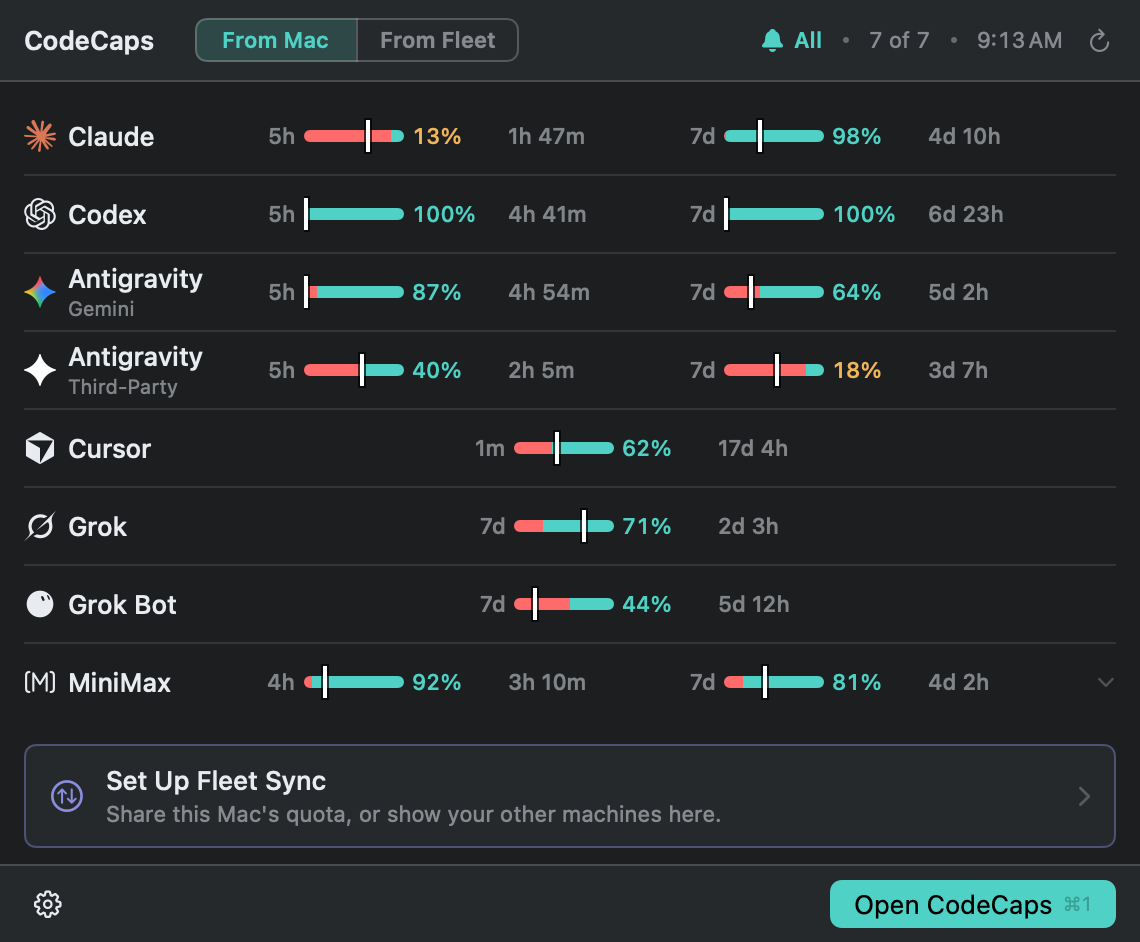
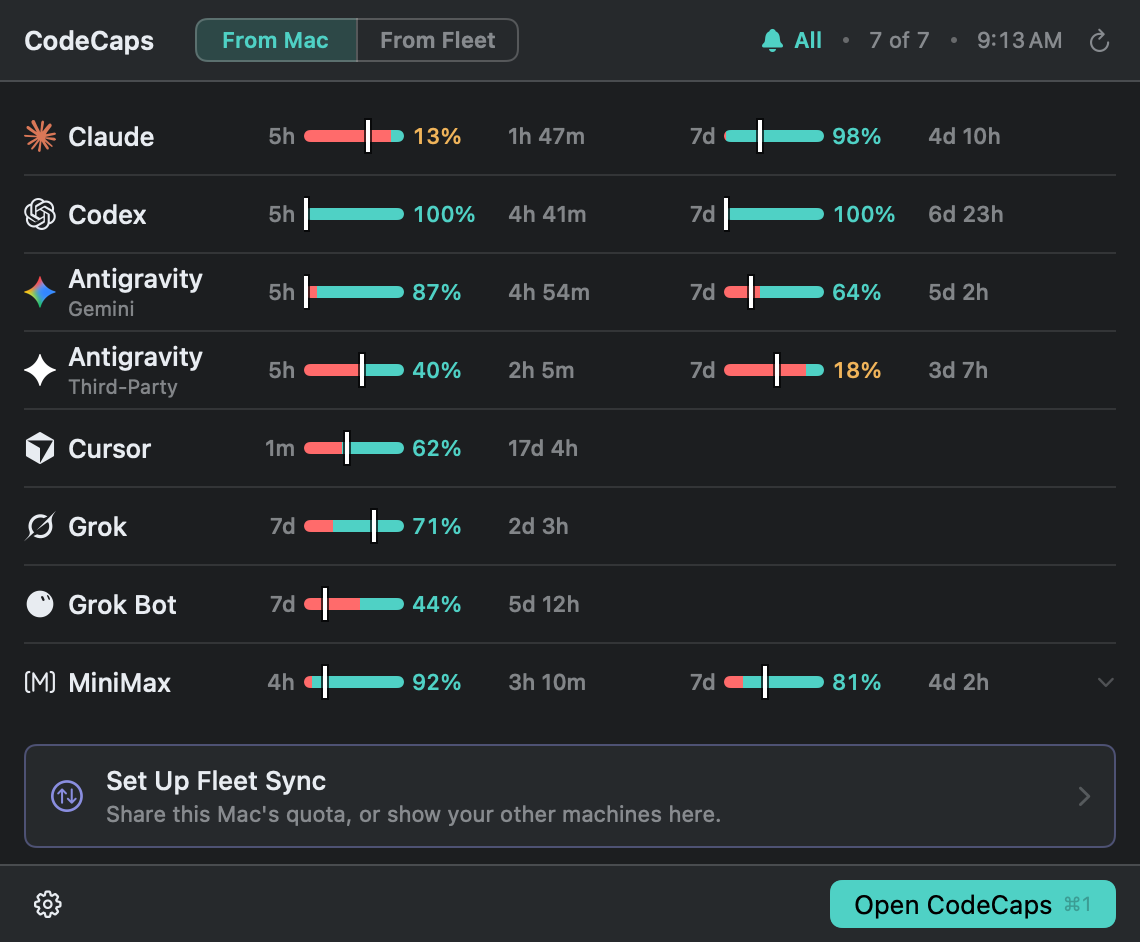
fix(glance): single-meter rows start in the first column again, never centred
Owner 2026-10-01: Cursor's "1m", Grok's "7d" and Grok Bot's "7d" sat in a
middle position between the two quota columns.  Single bars start in the
FIRST column, at the same x as the "5h" bars of the two-meter rows, and the
second column stays empty.

Root cause.  GlanceMeterColumns centred a lone meter across the two-meter
span (PR #88, "centred lone meters"), so Cursor and Grok have floated between
the columns since then.  PR #91 and #93 made it worse by adding Grok Bot to
the lone rows: their duplicate and placeholder guards collapse its stray
second bar, so the row became a single meter and joined the centred ones.
The row's single meter is always the `short` slot (glanceMeterPair), and
GlanceMeterColumns treated `short ?? long` as one centred slot.  The same
branch also centred a lone LONG window on an expanded line, which belongs
under the second column, under the row's weekly meter.

Fix.  GlanceMeterColumns always lays out two fixed-width columns: the short
window in the first, the long window in the second, and an empty column of the
same width where there is none.  No centring.  Untouched: the top bar, Title
Case switch, glanceDrawableWindows and glanceIsCopy guards, glanceMeterPair,
bar-end marker handling.

Tests.  GlanceAlignmentTests replaces the test that pinned the centring:

- testASingleMeterRowStartsInTheFirstColumnOfATwoMeterRow renders Cursor,
  Grok and Grok Bot beside Claude and asserts the bar's first pixel and the
[…]

diff --git a/Tests/CodeCapsTests/GlanceAlignmentTests.swift b/Tests/CodeCapsTests/GlanceAlignmentTests.swift
@@ -26,10 +26,13 @@ final class GlanceAlignmentTests: XCTestCase {
         return rep
     }
 
-    /// The first x, in points, at or right of `from` where a pixel satisfies `test`.
-    private func firstX(in rep: NSBitmapImageRep, from: CGFloat, where test: (NSColor) -> Bool) -> CGFloat? {
-        let scale = CGFloat(rep.pixelsWide) / Metrics.glanceWidth
-        for x in Int(from * scale)..<rep.pixelsWide {
+    /// The first x, in points, at or right of `from` where a pixel satisfies
+    /// `test`.  `width` is the width, in points, the image was drawn at.
+    private func firstX(in rep: NSBitmapImageRep, from: CGFloat, to end: CGFloat? = nil,
+                        width: CGFloat = Metrics.glanceWidth,
+                        where test: (NSColor) -> Bool) -> CGFloat? {
+        let scale = CGFloat(rep.pixelsWide) / width
+        for x in Int(from * scale)..<min(rep.pixelsWide, end.map { Int($0 * scale) } ?? rep.pixelsWide) {
             for y in 0..<rep.pixelsHigh {
                 if let color = rep.colorAt(x: x, y: y)?.usingColorSpace(.deviceRGB), test(color) {
                     return CGFloat(x) / scale
@@ -52,10 +55,10 @@ final class GlanceAlignmentTests: XCTestCase {
     }
 
     func testStatusTextStartsWhereASingleBarStarts() throws {
-        // Measured on a TWO-window row.  A row with a single meter centres it
-        // across the two-meter span, so Cursor's bar no longer sits on the
-        // grid; Claude's first meter does, and that is the position the status
-        // text has to line up with.
+        // Measured on a TWO-window row.  A single meter starts in the same
+        // first column (`testASingleMeterRowStartsInTheFirstColumn…`), so
+        // Claude's first meter and Cursor's bar share one position, and that is
+        // the position the status text has to line up with.
         let claude = section(GlanceFixtures.localWindows.filter { $0.providerKey == "anthropic" })
         let barRow = try rowImage(claude, issue: nil)
         // The used share of Claude's first bar is red, and nothing else in the
@@ -70,22 +73,129 @@ final class GlanceAlignmentTests: XCTestCase {
         })
 
         XCTAssertEqual(textX, barX, accuracy: 3, "\"not signed in\" starts where a bar starts")
+
+        // And where a single-meter row's bar starts, which is the same place.
+        let cursor = section(GlanceFixtures.localWindows.filter { $0.providerKey == "cursor" })
+        let cursorBarX = try XCTUnwrap(firstX(in: try rowImage(cursor, issue: nil), from: columnStart) {
+            $0.redComponent > 0.6 && $0.greenComponent < 0.4
+        })
+        XCTAssertEqual(textX, cursorBarX, accuracy: 3, "\"not signed in\" starts where Cursor's lone bar starts")
         XCTAssertEqual(barX - columnStart, Metrics.glanceMeterBarInset, accuracy: 3,
                        "the bar sits one caption column in from the start of the meter")
     }
 
-    /// A single-meter row centres its meter, so its bar sits half a meter plus
-    /// half the group gap to the right of where a two-window row's first bar
-    /// does.  Pinned because that offset is the whole point of the change: the
-    /// lone meter reads as deliberate instead of as a missing second reading.
-    func testASingleMeterRowCentresItsBarBetweenTheTwoMeterColumns() throws {
-        let cursor = section(GlanceFixtures.localWindows.filter { $0.providerKey == "cursor" })
-        let barX = try XCTUnwrap(firstX(in: try rowImage(cursor, issue: nil), from: columnStart) {
-            $0.redComponent > 0.6 && $0.greenComponent < 0.4
-        })
-        let offset = (Metrics.glanceMeterWidth + Metrics.glanceMeterGroupGap) / 2
-        XCTAssertEqual(barX - columnStart, Metrics.glanceMeterBarInset + offset, accuracy: 3,
-                       "a lone meter is centred across the two-meter span")
+    /// The last x, in points, left of `before` where a pixel is not the popover
+    /// background: the right edge of a meter's caption, which is trailing-aligned
+    /// in its column.
+    private func lastInkX(in rep: NSBitmapImageRep, from: CGFloat, before: CGFloat) -> CGFloat? {
+        let scale = CGFloat(rep.pixelsWide) / Metrics.glanceWidth
+        var found: CGFloat?
+        for x in Int(from * scale)..<Int(before * scale) {
+            for y in 0..<rep.pixelsHigh {
+                if let color = rep.colorAt(x: x, y: y)?.usingColorSpace(.deviceRGB), isInk(color) {
+                    found = CGFloat(x + 1) / scale
+                    break
+                }
+            }
+        }
+        return found
+    }
+
+    /// Whether a pixel is anything but the light popover background.
+    private func isInk(_ color: NSColor) -> Bool {
+        abs(color.redComponent - 0.96) > 0.2 || abs(color.greenComponent - 0.97) > 0.2
+    }
+
+    private func isUsedShare(_ color: NSColor) -> Bool {
+        color.redComponent > 0.6 && color.greenComponent < 0.4
+    }
+
+    /// A row with one meter puts it in the FIRST column, exactly where a
+    /// two-meter row puts its first one, and leaves the second column empty.
+    /// Never centred: the owner has ruled on this twice, and a centred lone bar
+    /// (PR #88) read as a different grid from the rows above and below it.
+    ///
+    /// Measured against rendered pixels: the bar's first used-share pixel, and
+    /// the caption's right edge (the caption is trailing-aligned in its
+    /// column, so its left edge moves with the glyphs but its right edge does
+    /// not).
+    func testASingleMeterRowStartsInTheFirstColumnOfATwoMeterRow() throws {
+        let twoMeter = try rowImage(
+            section(GlanceFixtures.localWindows.filter { $0.providerKey == "anthropic" }), issue: nil)
+        let referenceBar = try XCTUnwrap(firstX(in: twoMeter, from: columnStart, where: isUsedShare))
+        let barEdge = referenceBar - Metrics.glanceMeterGap
+        let referenceCaption = try XCTUnwrap(lastInkX(in: twoMeter, from: columnStart, before: barEdge))
+        XCTAssertEqual(referenceBar - columnStart, Metrics.glanceMeterBarInset, accuracy: 3,
+                       "the reference bar sits one caption column in from the start of the meter")
+
+        // Cursor's "1m", Grok's "7d", and Grok Bot's "7d" (the row that drew a
+        // stray second bar and is now one) are the single-meter rows.
+        for provider in ["cursor", "xai", "grok-bot"] {
+            let row = section(GlanceFixtures.localWindows.filter { $0.providerKey == provider })
+            let pair = glanceMeterPair(for: row, now: now)
+            XCTAssertNotNil(pair.short, "\(provider) has a meter")
+            XCTAssertNil(pair.long, "\(provider) is a single-meter row")
+
+            let image = try rowImage(row, issue: nil)
+            let bar = try XCTUnwrap(firstX(in: image, from: columnStart, where: isUsedShare), provider)
+            XCTAssertEqual(bar, referenceBar, accuracy: 2, "\(provider)'s bar starts at a two-meter row's first bar")
+            let caption = try XCTUnwrap(lastInkX(in: image, from: columnStart, before: bar - Metrics.glanceMeterGap),
+                                        provider)
+            XCTAssertEqual(caption, referenceCaption, accuracy: 2,
+                           "\(provider)'s caption ends where a two-meter row's first caption does")
+            XCTAssertLessThan(caption, columnStart + Metrics.glanceMeterCaptionWidth + 1,
+                              "\(provider)'s caption is inside the first column")
+
+            // The second column is empty: nothing is drawn across its width.
+            let secondColumn = columnStart + Metrics.glanceMeterWidth + Metrics.glanceMeterGroupGap
+            XCTAssertNil(firstX(in: image, from: secondColumn, to: secondColumn + Metrics.glanceMeterWidth,
+                                where: isInk),
+                         "\(provider) leaves the second column empty")
+        }
+    }
+
+    /// One line of meters drawn the way a row and every expanded line draw it.
+    private func columnsImage(short: QuotaWindowSnapshot?, long: QuotaWindowSnapshot?) throws -> NSBitmapImageRep {
+        let size = CGSize(width: Metrics.glanceMetersWidth, height: Metrics.glanceExpandedLineHeight)
+        // Filled to the full size first, so the background covers the whole image
+        // and "nothing drawn here" means the background colour, not transparency.
+        let view = GlanceMeterColumns(short: short, long: long, now: now)
+            .frame(width: size.width, height: size.height, alignment: .leading)
+            .background(Theme.background)
+        guard let png = GlanceFixtures.png(of: view, size: size, dark: false),
+              let rep = NSBitmapImageRep(data: png) else {
+            throw XCTSkip("AppKit could not draw offscreen in this session")
+        }
+        return rep
+    }
+
+    /// An expanded line with one window keeps it under the column its cadence
+    /// names: a lone weekly under the row's weekly meter, a lone short window
+    /// under the row's short one.  A lone meter is never centred between them.
+    func testALoneWindowOnAnExpandedLineSitsUnderItsOwnCadenceColumn() throws {
+        let claude = section(GlanceFixtures.localWindows.filter { $0.providerKey == "anthropic" })
+        let pair = glanceMeterPair(for: claude, now: now)
+        let window = try XCTUnwrap(pair.short)
+        let width = Metrics.glanceMetersWidth
+        let secondColumn = Metrics.glanceMeterWidth + Metrics.glanceMeterGroupGap
+
+        let both = try columnsImage(short: window, long: window)
+        let firstBar = try XCTUnwrap(firstX(in: both, from: 0, width: width, where: isUsedShare))
+        let secondBar = try XCTUnwrap(firstX(in: both, from: secondColumn, width: width, where: isUsedShare))
+        XCTAssertEqual(firstBar, Metrics.glanceMeterBarInset, accuracy: 2)
+        XCTAssertEqual(secondBar - firstBar, secondColumn, accuracy: 2, "the two columns are one meter plus the gap apart")
+
+        let onlyShort = try columnsImage(short: window, long: nil)
+        XCTAssertEqual(try XCTUnwrap(firstX(in: onlyShort, from: 0, width: width, where: isUsedShare)),
+                       firstBar, accuracy: 2, "a lone short window is under the first column")
+        XCTAssertNil(firstX(in: onlyShort, from: secondColumn, width: width, where: isInk),
+                     "and nothing is under the second")
+
+        let onlyLong = try columnsImage(short: nil, long: window)
+        XCTAssertEqual(try XCTUnwrap(firstX(in: onlyLong, from: 0, width: width, where: isUsedShare)),
+                       secondBar, accuracy: 2, "a lone long window is under the second column")
+        XCTAssertNil(firstX(in: onlyLong, from: 0, to: secondColumn - 1, width: width, where: isInk),
+                     "and nothing is under the first")
     }
 
     func testTheBarInsetIsTheCaptionColumnAndItsGap() {

diff --git a/Sources/CodeCaps/GlanceViews.swift b/Sources/CodeCaps/GlanceViews.swift
@@ -824,8 +824,21 @@ struct GlanceMeter: View {
 }
 
 /// The two meter columns every Glance line shares: the row itself, and each
-/// extra line under an expanded row.  The first column is always reserved, so
-/// a line with only a long window still puts it under the row's long meter.
+/// extra line under an expanded row.
+///
+/// Two columns, always.  A meter sits in the column its cadence names and is
+/// never centred between them:
+///
+/// - A row with one meter puts it in the FIRST column, where a two-meter row's
+///   first meter is, and leaves the second column empty.  (The row's single
+///   meter is always its `short` slot; see `glanceMeterPair`.)  Owner ruling,
+///   restated 2026-10-01: single bars start in the first column, the same x as
+///   the "5h" bars of the rows above and below, so the bars, captions and
+///   percentages form one grid down the whole popover.  PR #88 centred them
+///   across the two columns; that is what this replaces.
+/// - A line with only a long window, which an expanded row uses for a lone
+///   weekly, keeps the first column reserved and puts the window under the
+///   second, so it sits under the row's weekly meter.
 struct GlanceMeterColumns: View {
     let short: QuotaWindowSnapshot?
     let long: QuotaWindowSnapshot?
@@ -834,31 +847,20 @@ struct GlanceMeterColumns: View {
     var body: some View {
         columns
             // The meter area is always the full two-meter width, whatever it
-            // holds.  Without this the area competes with the row's own
-            // trailing spacer for the leftover space, and a lone meter's
-            // centring lands wherever that division happened to fall — 118pt
-            // from the first column in one render, 105pt in the next, with
-            // nothing in between to explain it.
+            // holds, so the columns land at the same x on every row.  Without
+            // this the area competes with the row's own trailing spacer for the
+            // leftover space and a column's position depends on how that
+            // division happens to fall.
             .frame(width: Metrics.glanceMetersWidth, alignment: .leading)
     }
 
     @ViewBuilder
     private var columns: some View {
-        if let short, let long {
+        if short != nil || long != nil {
             HStack(spacing: 0) {
-                slot(short)
+                column(short)
                 Spacer().frame(width: Metrics.glanceMeterGroupGap)
-                slot(long)
-            }
-        } else if let only = short ?? long {
-            // A row that reports one window centres it across the two-meter
-            // span.  Leaving it in the first column left a hole the width of a
-            // whole meter, which is what the owner was reading as a missing
-            // second reading rather than as a deliberate gap.
-            HStack(spacing: 0) {
-                Spacer(minLength: 0)
-                slot(only)
-                Spacer(minLength: 0)
+                column(long)
             }
         } else {
             // No window at all.  The width is still reserved so a row with no
@@ -867,12 +869,17 @@ struct GlanceMeterColumns: View {
         }
     }
 
-    /// A meter in a fixed-width column.  The frame is what makes the centring
-    /// above exact: without it the slot is as wide as its text, "1m" narrower
-    /// than "31d 23h", and a lone meter's offset moves with its own label.
-    private func slot(_ snapshot: QuotaWindowSnapshot) -> some View {
-        GlanceMeter(snapshot: snapshot, now: now)
-            .frame(width: Metrics.glanceMeterWidth, alignment: .leading)
+    /// One column: a meter, or the same width left empty.  The fixed width is
+    /// what puts a meter at exactly the same x on every line: without it the
+    /// slot is as wide as its text, "1m" narrower than "31d 23h".
+    @ViewBuilder
+    private func column(_ snapshot: QuotaWindowSnapshot?) -> some View {
+        if let snapshot {
+            GlanceMeter(snapshot: snapshot, now: now)
+                .frame(width: Metrics.glanceMeterWidth, alignment: .leading)
+        } else {
+            Spacer().frame(width: Metrics.glanceMeterWidth)
+        }
     }
 }
 

diff --git a/Sources/CodeCaps/QuotaComponents.swift b/Sources/CodeCaps/QuotaComponents.swift
@@ -188,14 +188,15 @@ enum Metrics {
         + glanceMeterGap + glanceMeterPercentWidth + glanceMeterGap + glanceMeterCountdownWidth
 
     /// Both meters and the gap between them, which is the width a row's meter
-    /// area occupies whether it holds two meters, one centred meter, or none.
-    /// Reserving it unconditionally is what stops a row with a single reading
-    /// from re-centring itself in the popover.
+    /// area occupies whether it holds two meters, one meter (in the first
+    /// column, never centred), or none.  Reserving it unconditionally is what
+    /// stops a row with a single reading from shifting in the popover.
     static let glanceMetersWidth: CGFloat = glanceMeterWidth * 2 + glanceMeterGroupGap
 
     /// Where a meter's bar starts, measured from the start of its column.  A
     /// row with no reading puts its status text here, so "not signed in" sits
-    /// exactly where a single bar (Cursor's) would begin.
+    /// exactly where the first bar of every row, single-meter rows included
+    /// (Cursor's), begins.
     static let glanceMeterBarInset: CGFloat = glanceMeterCaptionWidth + glanceMeterGap
 
     /// The width a two-meter row actually occupies: the alarm bell, logo,
